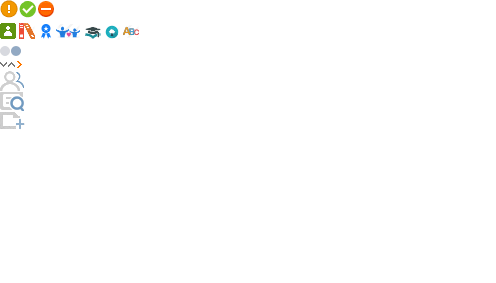
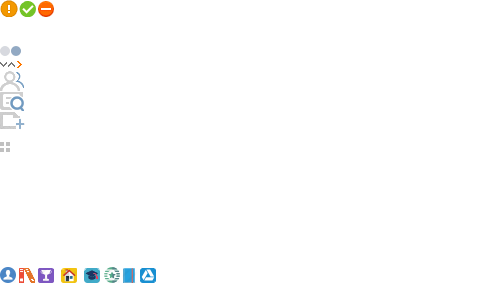
wangyang

Changed region(s): [[0.0, 0.9329, 0.3327, 1.0], [0.0, 0.0565, 0.2722, 0.1413], [0.0, 0.4806, 0.0302, 0.5371]]

diff --git a/EasyOa.Web/Content/css/index.css b/EasyOa.Web/Content/css/index.css
@@ -97,12 +97,13 @@
 }
 
 .sidebar .ico_right {
-    display:inline-block;
-    width:8px;height:10px;
+    display: inline-block;
+    width: 8px;
+    height: 10px;
     /*border:1px solid #ccc;*/
-    background:url(../imgs/icon.png) no-repeat;
-    background-position:-16px -60px;
-    margin-top:12px;
+    background: url(../imgs/icon.png) no-repeat;
+    background-position: -16px -60px;
+    margin-top: 12px;
 }
 
 .nav_sub {
@@ -198,8 +199,8 @@
 .page_nav {
     zoom: 1;
     padding: 0 10px 0 12px;
-    min-height: 37px;
-    height: 37px;
+    min-height: 35px;
+    height: 35px;
     border-bottom: 1px solid #e1e2e2;
     background-color: #f8f8f8;
     /*border:1px solid red;*/
@@ -207,7 +208,7 @@
 
 .title_warp {
     position: absolute;
-    margin-top: 9px;
+    margin-top: 8px;
     padding-left: 9px;
 }
 
@@ -225,16 +226,16 @@
 
     .page_nav .links a {
         position: relative;
-        height: 37px;
-        line-height: 37px;
-        padding: 0 13px;
+        height: 35px;
+        line-height: 35px;
+        padding: 0 12px;
         white-space: nowrap;
-        text-align: center;
+        text-align: left;
+        width: 65px;
         overflow: hidden;
         display: inline;
         float: left;
-        /*border:1px solid #fff;*/
-        /*background-color:#fff;*/
+        /*border:1px solid red;*/
     }
 
         .page_nav .links a:hover {
@@ -248,38 +249,111 @@
         border-top: 1px solid #DDDDDD;
     }
 
-.emp_con {
+.ico_menu {
+    display: inline-block;
+    /*border: 1px solid red;*/
+    width: 12px;
+    height: 12px;
+    position: absolute;
+    overflow: hidden;
+    top: 12px;
+    right: 9px;
+    background: url(../imgs/icon.png) no-repeat;
+    background-position: 0 -141px;
+}
+
+.emp_con, .dept_con {
     border: 1px solid #DDDDDD;
     border-top: 0;
     background-color: #FFFFFF;
-    padding: 4px 12px;
+    padding: 4px 10px;
     margin-top: 0px;
     position: relative;
-    height: 35px;
+    height: 33px;
     /*border: 1px solid red;*/
 }
 
-    .emp_con ul li {
+    .emp_con ul li, .dept_con ul li {
         float: left;
-        margin-right: 10px;
-        margin-top: 4px;
+        margin-right: 15px;
+        margin-top: 3px;
         vertical-align: middle;
-        padding-left: 2px;
+        /*border:1px solid red;*/
     }
 
-        .emp_con ul li a {
+        .emp_con ul li a, .dept_con ul li a {
             display: inline-block;
             height: 24px;
             line-height: 22px;
+            width: 55px;
             position: relative;
             color: #666666;
-            text-align: center;
-            padding: 1px 10px;
+            /*text-align: right;*/
+            padding-left: 28px;
             border-top: 1px solid #fff;
             border-left: 1px solid #fff;
+            /*border:1px solid red;*/
         }
 
-            .emp_con ul li a:hover {
+            .emp_con ul li a:hover, .dept_con ul li a:hover {
                 background-color: #E1E6EB;
                 border-color: #C9D4DF;
             }
+
+.ico_user, .ico_contract, .ico_family, .ico_education, .ico_experience, .ico_award, .ico_learn, .ico_transfer {
+    position: absolute;
+    left: 5px;
+    top: 4px;
+    display: inline-block;
+    width: 16px;
+    height: 16px;
+    overflow: hidden;
+}
+
+.ico_user {
+    /*border:1px solid red;*/
+    background: url(../imgs/icon.png) no-repeat;
+    background-position: 0 -267px;
+}
+
+.ico_contract {
+    /*border:1px solid red;*/
+    background: url(../imgs/icon.png) no-repeat;
+    background-position: -19px -267px;
+}
+
+.ico_family {
+    /*border:1px solid red;*/
+    background: url(../imgs/icon.png) no-repeat;
+    background-position: -61px -267px;
+}
+
+.ico_education {
+    /*border:1px solid red;*/
+    background: url(../imgs/icon.png) no-repeat;
+    background-position: -84px -267px;
+}
+
+.ico_experience {
+    /*border:1px solid red;*/
+    background: url(../imgs/icon.png) no-repeat;
+    background-position: -104px -267px;
+}
+
+.ico_award {
+    /*border:1px solid red;*/
+    background: url(../imgs/icon.png) no-repeat;
+    background-position: -38px -267px;
+}
+
+.ico_learn {
+    /*border:1px solid red;*/
+    background: url(../imgs/icon.png) no-repeat;
+    background-position: -120px -267px;
+}
+
+.ico_transfer {
+    /*border:1px solid red;*/
+    background: url(../imgs/icon.png) no-repeat;
+    background-position: -140px -267px;
+}
